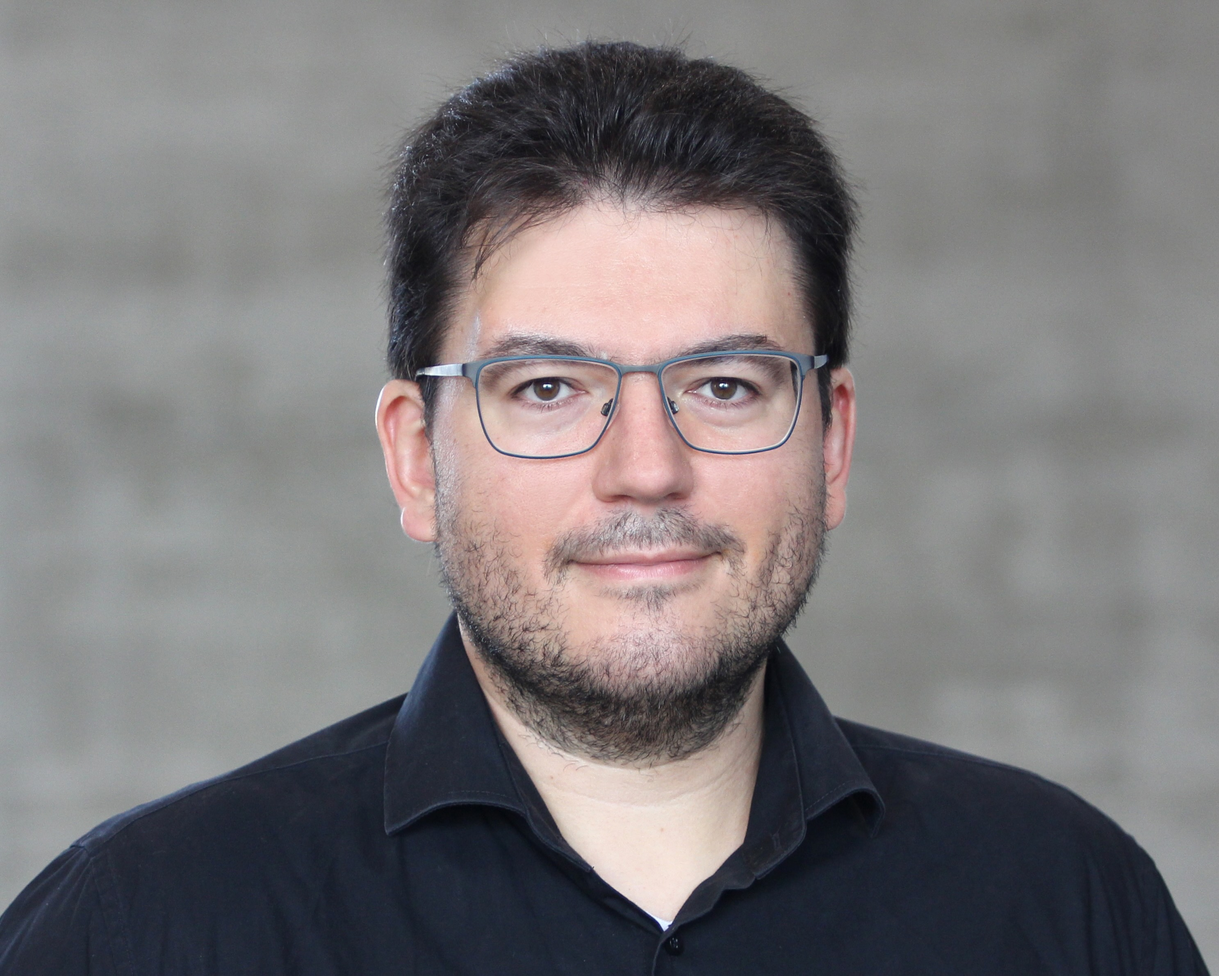
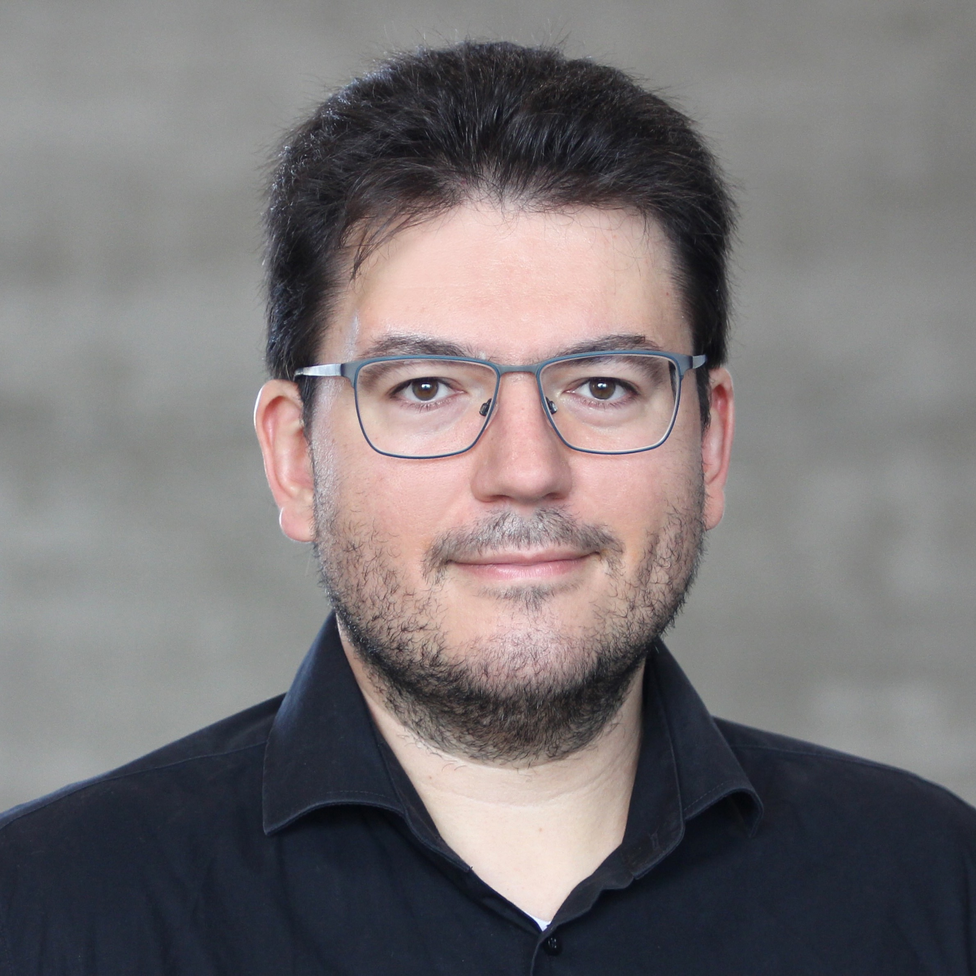
Update profile photo and publication links

diff --git a/assets/css/main.scss b/assets/css/main.scss
@@ -8,8 +8,30 @@ search: false
 @import "minimal-mistakes/skins/{{ site.minimal_mistakes_skin | default: 'default' }}"; // skin
 @import "minimal-mistakes"; // main partials
 
-.author__avatar img {
+.author__avatar {
   width: 140px;
   height: 140px;
+  overflow: hidden;
+}
+
+.author__avatar a {
+  display: block;
+  width: 100%;
+  height: 100%;
+}
+
+.author__avatar img {
+  width: 100%;
+  height: 100%;
+  max-width: none;
   object-fit: cover;
+  object-position: center top;
+  border-radius: 0;
+  padding: 0;
+}
+
+@media (min-width: 64em) {
+  .sidebar {
+    opacity: 1;
+  }
 }

diff --git a/publications.md b/publications.md
@@ -11,38 +11,38 @@ The hash <sup>&#35;</sup> indicates co-corresponding authorship.
 
 ### Peer-reviewed Journal Publications
 
-1. A. Tahaei, R. Piscitello-Gómez, S. Suganthan, G. Cwikla, J. F. Fuhrmann, N. A. Dye, and <u>M. Popović</u>. *Cell Divisions Imprint Long Lasting Elastic Strain Fields in Epithelial Tissues*, **PRX Life**, 3, 043008 (2025).
-2. Y. Maroudas-Sacks, S. Suganthan, L. Garion, Y. Ascoli-Abbina, A. Westfried, N. Dori, I. Pasvinter, <u>M. Popović</u><sup>&#35;</sup>, K. Keren<sup>&#35;</sup>. *Mechanical strain focusing at topological defect sites in regenerating Hydra*, **Development**, 152(4) (2025).
-3. Y. Maroudas-Sacks, L. Garion, S. Suganthan, <u>M. Popović</u>, K. Keren. *Confinement modulates axial patterning in regenerating Hydra*, **PRX Life**, 2, 043007 (2024).
-4. T. H. Tan<sup>&#42;</sup>, A. Amiri<sup>&#42;</sup>, I. Seijo-Barandiarán<sup>&#42;</sup>, M. F. Staddon, A. Materne, S. Tomas, C. Duclut, <u>M. Popović</u><sup>&#35;</sup>, A. Grapin-Botton<sup>&#35;</sup>, F. Jülicher<sup>&#35;</sup>. *Emergent chirality in active solid rotation of pancreas spheres*, **PRX Life**, 2, 033006 (2024).
-5. J. F. Fuhrmann, A. Krishna, J. Paijmans, C. Duclut, G. Cwikla, S. Eaton, <u>M. Popović</u>, F. Jülicher, C. D. Modes, and N. A. Dye. *Active shape programming drives Drosophila wing disc eversion*, **Science Advances**, 10(32) (2024).
-6. T. Divoux et al. *Ductile-to-brittle transition and yielding in soft amorphous materials: perspectives and open questions*, **Soft Matter**, 20, 6868-6888 (2024).
-7. A. Amiri, C. Duclut, F. Jülicher, <u>M. Popović</u>. *Random traction yielding transition in epithelial tissues*, **Physical Review Letters**, 131, 188401 (2023).
-8. R. Takaki, L. Jawerth, <u>M. Popović</u><sup>&#35;</sup>, F. Jülicher<sup>&#35;</sup>. *Theory of rheology and aging of protein condensates*, **PRX Life**, 1, 013006 (2023).
-9. A. Tahaei, G. Biroli, M. Ozawa, <u>M. Popović</u>, M. Wyart. *Scaling Description of Dynamical Heterogeneity and Avalanches of Relaxation in Glass-Forming Liquids*, **Physical Review X**, 13, 031034 (2023).
-10. R. Piscitello-Gómez, F. S. Gruber, A. Krishna, C. Duclut, C. D. Modes, <u>M. Popović</u>, F. Jülicher, N. A. Dye, S. Eaton. *Core PCP mutations affect short-time mechanical properties but not tissue morphogenesis in the Drosophila pupal wing*, **eLife**, 12, e85581 (2023).
-11. <u>M. Popović</u>, T. W. J. de Geus, W. Ji, A. Rosso, M. Wyart. *Scaling description of creep flow in amorphous solids*, **Physical Review Letters**, 129(20), 208001 (2022).
-12. S. R. Naganathan<sup>&#35;</sup>, <u>M. Popović</u><sup>&#35;</sup>, A. C. Oates<sup>&#35;</sup>. *Left-right symmetry of zebrafish embryos requires somite surface tension*, **Nature**, 605(7910), 516-521 (2022).
-13. <u>M. Popović</u>, T. W. J. de Geus, W. Ji, M. Wyart. *Thermally activated flow in models of amorphous solids*, **Physical Review E**, 104(2), 025010 (2021).
-14. N. A. Dye<sup>&#42;</sup>, <u>M. Popović</u><sup>&#42;</sup>, K. V. Iyer, J. F. Fuhrmann, R. Piscitello-Gómez, S. Eaton, F. Jülicher. *Self-organized patterning of cell morphology via mechanosensitive feedback*, **eLife**, 10, e57964 (2021).
-15. <u>M. Popović</u><sup>&#42;</sup>, V. Druelle<sup>&#42;</sup>, N. A. Dye, F. Jülicher, M. Wyart. *Inferring the flow properties of epithelial tissues from their geometry*, **New Journal of Physics**, 23, 033004 (2021).
-16. W. Ji, T. W. J. de Geus, <u>M. Popović</u>, E. Agoritsas, M. Wyart. *Thermal origin of quasilocalized excitations in glasses*, **Physical Review E**, 102, 062110 (2020).
-17. T. W. J. de Geus, <u>M. Popović</u>, W. Ji, A. Rosso, and M. Wyart. *How collective asperity detachments nucleate slip at frictional interfaces*, **Proceedings of the National Academy of Sciences**, 116(48), 23977-23983 (2019).
-18. W. Ji, <u>M. Popović</u>, T. W. J. de Geus, E. Lerner, and M. Wyart. *Theory for the density of interacting quasi-localised modes in amorphous solids*, **Physical Review E**, 99, 023003 (2019).
-19. <u>M. Popović</u>, T. W. J. de Geus, and M. Wyart. *Elastoplastic description of sudden failure in athermal amorphous materials during quasistatic loading*, **Physical Review E** (Rapid Communication), 98, 040901(R) (2018).
-20. N. A. Dye, <u>M. Popović</u>, S. Spannl, R. Etournay, D. Kainmüller, S. Ghosh, E. W. Myers, F. Jülicher, and S. Eaton. *Cell dynamics underlying oriented growth of the Drosophila wing imaginal disc*, **Development** (2017).
-21. M. Merkel, R. Etournay, <u>M. Popović</u>, G. Salbreux, S. Eaton, and F. Jülicher. *Triangles bridge the scales: Quantifying cellular contributions to tissue deformation*, **Physical Review E**, 95, 032401 (2017).
-22. <u>M. Popović</u>, A. Nandi, M. Merkel, R. Etournay, S. Eaton, F. Jülicher, and G. Salbreux. *Active dynamics of tissue shear flow*, **New Journal of Physics**, 19(3), 033006 (2017).
-23. R. Etournay<sup>&#42;</sup>, M. Merkel<sup>&#42;</sup>, <u>M. Popović</u><sup>&#42;</sup>, H. Brandl<sup>&#42;</sup>, N. A. Dye, B. Aigouy, G. Salbreux, S. Eaton, and F. Jülicher. *TissueMiner: a multiscale analysis toolkit to quantify how cellular processes create tissue dynamics*, **eLife**, 5, e14334 (2016).
-24. R. Etournay<sup>&#42;</sup>, <u>M. Popović</u><sup>&#42;</sup>, M. Merkel<sup>&#42;</sup>, A. Nandi<sup>&#42;</sup>, C. Blasse, B. Aigouy, H. Brandl, G. Myers, G. Salbreux, F. Jülicher, et al. *Interplay of cell dynamics and epithelial tension during morphogenesis of the Drosophila pupal wing*, **eLife**, 4, e07090 (2015).
-25. <u>M. Popović</u>, H. Štefančić, B. Sluban, P. K. Novak, M. Grčar, I. Možetič, M. Puliga, and V. Zlatić. *Extraction of temporal networks from term co-occurrences in online textual sources*, **PLOS ONE**, 9(12), e99515 (2014).
-26. <u>M. Popović</u> and A. Šiber. *Lattice-gas Poisson-Boltzmann approach for sterically asymmetric electrolytes*, **Physical Review E**, 88, 022302 (2013).
-27. <u>M. Popović</u>, H. Štefančić, and V. Zlatić. *Geometric origin of scaling in large traffic networks*, **Physical Review Letters**, 109, 208701 (2012).
+1. A. Tahaei, R. Piscitello-Gómez, S. Suganthan, G. Cwikla, J. F. Fuhrmann, N. A. Dye, and <u>M. Popović</u>. *Cell Divisions Imprint Long Lasting Elastic Strain Fields in Epithelial Tissues*, **PRX Life**, 3, 043008 (2025). [Journal](https://doi.org/10.1103/lh3v-v2c9) [Preprint](https://doi.org/10.48550/arXiv.2406.03433)
+2. Y. Maroudas-Sacks, S. Suganthan, L. Garion, Y. Ascoli-Abbina, A. Westfried, N. Dori, I. Pasvinter, <u>M. Popović</u><sup>&#35;</sup>, K. Keren<sup>&#35;</sup>. *Mechanical strain focusing at topological defect sites in regenerating Hydra*, **Development**, 152(4) (2025). [Journal](https://doi.org/10.1242/dev.204514) [Preprint](https://doi.org/10.1101/2024.06.13.598802)
+3. Y. Maroudas-Sacks, L. Garion, S. Suganthan, <u>M. Popović</u>, K. Keren. *Confinement modulates axial patterning in regenerating Hydra*, **PRX Life**, 2, 043007 (2024). [Journal](https://doi.org/10.1103/PRXLife.2.043007) [Preprint](https://doi.org/10.1101/2024.06.13.598813)
+4. T. H. Tan<sup>&#42;</sup>, A. Amiri<sup>&#42;</sup>, I. Seijo-Barandiarán<sup>&#42;</sup>, M. F. Staddon, A. Materne, S. Tomas, C. Duclut, <u>M. Popović</u><sup>&#35;</sup>, A. Grapin-Botton<sup>&#35;</sup>, F. Jülicher<sup>&#35;</sup>. *Emergent chirality in active solid rotation of pancreas spheres*, **PRX Life**, 2, 033006 (2024). [Journal](https://doi.org/10.1103/PRXLife.2.033006) [Preprint](https://doi.org/10.1101/2022.09.29.510101)
+5. J. F. Fuhrmann, A. Krishna, J. Paijmans, C. Duclut, G. Cwikla, S. Eaton, <u>M. Popović</u>, F. Jülicher, C. D. Modes, and N. A. Dye. *Active shape programming drives Drosophila wing disc eversion*, **Science Advances**, 10(32) (2024). [Journal](https://doi.org/10.1126/sciadv.adp0860) [Preprint](https://doi.org/10.1101/2023.12.23.573034)
+6. T. Divoux et al. *Ductile-to-brittle transition and yielding in soft amorphous materials: perspectives and open questions*, **Soft Matter**, 20, 6868-6888 (2024). [Journal](https://doi.org/10.1039/d3sm01740k) [Preprint](https://arxiv.org/abs/2312.14278)
+7. A. Amiri, C. Duclut, F. Jülicher, <u>M. Popović</u>. *Random traction yielding transition in epithelial tissues*, **Physical Review Letters**, 131, 188401 (2023). [Journal](https://doi.org/10.1103/PhysRevLett.131.188401) [Preprint](https://arxiv.org/abs/2211.02159)
+8. R. Takaki, L. Jawerth, <u>M. Popović</u><sup>&#35;</sup>, F. Jülicher<sup>&#35;</sup>. *Theory of rheology and aging of protein condensates*, **PRX Life**, 1, 013006 (2023). [Journal](https://doi.org/10.1103/PRXLife.1.013006) [Preprint](https://arxiv.org/abs/2303.18028)
+9. A. Tahaei, G. Biroli, M. Ozawa, <u>M. Popović</u>, M. Wyart. *Scaling Description of Dynamical Heterogeneity and Avalanches of Relaxation in Glass-Forming Liquids*, **Physical Review X**, 13, 031034 (2023). [Journal](https://doi.org/10.1103/PhysRevX.13.031034) [Preprint](https://arxiv.org/abs/2305.00219)
+10. R. Piscitello-Gómez, F. S. Gruber, A. Krishna, C. Duclut, C. D. Modes, <u>M. Popović</u>, F. Jülicher, N. A. Dye, S. Eaton. *Core PCP mutations affect short-time mechanical properties but not tissue morphogenesis in the Drosophila pupal wing*, **eLife**, 12, e85581 (2023). [Journal](https://doi.org/10.7554/eLife.85581)
+11. <u>M. Popović</u>, T. W. J. de Geus, W. Ji, A. Rosso, M. Wyart. *Scaling description of creep flow in amorphous solids*, **Physical Review Letters**, 129(20), 208001 (2022). [Journal](https://doi.org/10.1103/PhysRevLett.129.208001) [Preprint](https://arxiv.org/abs/2111.04061)
+12. S. R. Naganathan<sup>&#35;</sup>, <u>M. Popović</u><sup>&#35;</sup>, A. C. Oates<sup>&#35;</sup>. *Left-right symmetry of zebrafish embryos requires somite surface tension*, **Nature**, 605(7910), 516-521 (2022). [Journal](https://doi.org/10.1038/s41586-022-04646-9)
+13. <u>M. Popović</u>, T. W. J. de Geus, W. Ji, M. Wyart. *Thermally activated flow in models of amorphous solids*, **Physical Review E**, 104(2), 025010 (2021). [Journal](https://doi.org/10.1103/PhysRevE.104.025010) [Preprint](https://arxiv.org/abs/2009.04963)
+14. N. A. Dye<sup>&#42;</sup>, <u>M. Popović</u><sup>&#42;</sup>, K. V. Iyer, J. F. Fuhrmann, R. Piscitello-Gómez, S. Eaton, F. Jülicher. *Self-organized patterning of cell morphology via mechanosensitive feedback*, **eLife**, 10, e57964 (2021). [Journal](https://doi.org/10.7554/eLife.57964) [Preprint](https://www.biorxiv.org/content/10.1101/2020.04.16.044883v1)
+15. <u>M. Popović</u><sup>&#42;</sup>, V. Druelle<sup>&#42;</sup>, N. A. Dye, F. Jülicher, M. Wyart. *Inferring the flow properties of epithelial tissues from their geometry*, **New Journal of Physics**, 23, 033004 (2021). [Journal](https://doi.org/10.1088/1367-2630/abcbc7) [Preprint](https://arxiv.org/abs/2002.05133)
+16. W. Ji, T. W. J. de Geus, <u>M. Popović</u>, E. Agoritsas, M. Wyart. *Thermal origin of quasilocalized excitations in glasses*, **Physical Review E**, 102, 062110 (2020). [Journal](https://doi.org/10.1103/PhysRevE.102.062110)
+17. T. W. J. de Geus, <u>M. Popović</u>, W. Ji, A. Rosso, and M. Wyart. *How collective asperity detachments nucleate slip at frictional interfaces*, **Proceedings of the National Academy of Sciences**, 116(48), 23977-23983 (2019). [Journal](https://doi.org/10.1073/pnas.1906551116) [Preprint](https://arxiv.org/abs/1904.07635)
+18. W. Ji, <u>M. Popović</u>, T. W. J. de Geus, E. Lerner, and M. Wyart. *Theory for the density of interacting quasi-localised modes in amorphous solids*, **Physical Review E**, 99, 023003 (2019). [Journal](https://doi.org/10.1103/PhysRevE.99.023003) [Preprint](https://arxiv.org/abs/1806.01561)
+19. <u>M. Popović</u>, T. W. J. de Geus, and M. Wyart. *Elastoplastic description of sudden failure in athermal amorphous materials during quasistatic loading*, **Physical Review E** (Rapid Communication), 98, 040901(R) (2018). [Journal](https://doi.org/10.1103/PhysRevE.98.040901)
+20. N. A. Dye, <u>M. Popović</u>, S. Spannl, R. Etournay, D. Kainmüller, S. Ghosh, E. W. Myers, F. Jülicher, and S. Eaton. *Cell dynamics underlying oriented growth of the Drosophila wing imaginal disc*, **Development** (2017). [Journal](https://doi.org/10.1242/dev.155069)
+21. M. Merkel, R. Etournay, <u>M. Popović</u>, G. Salbreux, S. Eaton, and F. Jülicher. *Triangles bridge the scales: Quantifying cellular contributions to tissue deformation*, **Physical Review E**, 95, 032401 (2017). [Journal](https://doi.org/10.1103/PhysRevE.95.032401) [Preprint](https://arxiv.org/abs/1607.00357)
+22. <u>M. Popović</u>, A. Nandi, M. Merkel, R. Etournay, S. Eaton, F. Jülicher, and G. Salbreux. *Active dynamics of tissue shear flow*, **New Journal of Physics**, 19(3), 033006 (2017). [Journal](https://doi.org/10.1088/1367-2630/aa5756) [Preprint](https://arxiv.org/abs/1607.03304)
+23. R. Etournay<sup>&#42;</sup>, M. Merkel<sup>&#42;</sup>, <u>M. Popović</u><sup>&#42;</sup>, H. Brandl<sup>&#42;</sup>, N. A. Dye, B. Aigouy, G. Salbreux, S. Eaton, and F. Jülicher. *TissueMiner: a multiscale analysis toolkit to quantify how cellular processes create tissue dynamics*, **eLife**, 5, e14334 (2016). [Journal](https://doi.org/10.7554/eLife.14334)
+24. R. Etournay<sup>&#42;</sup>, <u>M. Popović</u><sup>&#42;</sup>, M. Merkel<sup>&#42;</sup>, A. Nandi<sup>&#42;</sup>, C. Blasse, B. Aigouy, H. Brandl, G. Myers, G. Salbreux, F. Jülicher, et al. *Interplay of cell dynamics and epithelial tension during morphogenesis of the Drosophila pupal wing*, **eLife**, 4, e07090 (2015). [Journal](https://doi.org/10.7554/eLife.07090)
+25. <u>M. Popović</u>, H. Štefančić, B. Sluban, P. K. Novak, M. Grčar, I. Možetič, M. Puliga, and V. Zlatić. *Extraction of temporal networks from term co-occurrences in online textual sources*, **PLOS ONE**, 9(12), e99515 (2014). [Journal](https://doi.org/10.1371/journal.pone.0099515)
+26. <u>M. Popović</u> and A. Šiber. *Lattice-gas Poisson-Boltzmann approach for sterically asymmetric electrolytes*, **Physical Review E**, 88, 022302 (2013). [Journal](https://doi.org/10.1103/PhysRevE.88.022302)
+27. <u>M. Popović</u>, H. Štefančić, and V. Zlatić. *Geometric origin of scaling in large traffic networks*, **Physical Review Letters**, 109, 208701 (2012). [Journal](https://doi.org/10.1103/PhysRevLett.109.208701)
 
 ### Preprints
 
-1. A. Westfried, L. Garion, <u>M. Popović</u>, K. Keren. *Body-Axis Reorientation in Regenerating Hydra under Geometric Confinement*, **bioRxiv**. <a href="https://doi.org/10.64898/2026.06.25.734673">10.64898/2026.06.25.734673</a> (2026).
-2. M. F. Staddon, N. A. Dye, <u>M. Popović</u><sup>&#35;</sup>, F. Jülicher<sup>&#35;</sup>. *Cell proliferation maintains cell area polydispersity in the growing fruit fly wing epithelium*, **arXiv**:2601.14509 (2026).
-3. J. Fuhrmann<sup>&#42;</sup>, V. M. Schimmenti<sup>&#42;</sup>, G. Cwikla, S. Lee, M. Yuan, M. Wilsch-Bräuninger, F. Jülicher, <u>M. Popović</u><sup>&#35;</sup>, N. A. Dye<sup>&#35;</sup>. *Apical extracellular matrix regulates fold morphogenesis in the Drosophila wing disc*, **bioRxiv** 2025.09.06.674631 (2025).
-4. K. Chhajed, F. S. Gruber, R. Etournay, N. A. Dye, F. Jülicher, <u>M. Popović</u>. *Cell size heterogeneity controls crystallization of the developing fruit fly wing*, **arXiv**:2505.05437 (2025).
-5. <u>M. Popović</u>, J. Prost, F. Jülicher. *Electrohydraulic activity of biological cells*, **arXiv**:2211.06909 (2022).
+1. A. Westfried, L. Garion, <u>M. Popović</u>, K. Keren. *Body-Axis Reorientation in Regenerating Hydra under Geometric Confinement*, **bioRxiv**. <a href="https://doi.org/10.64898/2026.06.25.734673">10.64898/2026.06.25.734673</a> (2026). [Preprint](https://doi.org/10.64898/2026.06.25.734673)
+2. M. F. Staddon, N. A. Dye, <u>M. Popović</u><sup>&#35;</sup>, F. Jülicher<sup>&#35;</sup>. *Cell proliferation maintains cell area polydispersity in the growing fruit fly wing epithelium*, **arXiv**:2601.14509 (2026). [Preprint](https://arxiv.org/abs/2601.14509)
+3. J. Fuhrmann<sup>&#42;</sup>, V. M. Schimmenti<sup>&#42;</sup>, G. Cwikla, S. Lee, M. Yuan, M. Wilsch-Bräuninger, F. Jülicher, <u>M. Popović</u><sup>&#35;</sup>, N. A. Dye<sup>&#35;</sup>. *Apical extracellular matrix regulates fold morphogenesis in the Drosophila wing disc*, **bioRxiv** 2025.09.06.674631 (2025). [Preprint](https://doi.org/10.1101/2025.09.06.674631)
+4. K. Chhajed, F. S. Gruber, R. Etournay, N. A. Dye, F. Jülicher, <u>M. Popović</u>. *Cell size heterogeneity controls crystallization of the developing fruit fly wing*, **arXiv**:2505.05437 (2025). [Preprint](https://arxiv.org/abs/2505.05437)
+5. <u>M. Popović</u>, J. Prost, F. Jülicher. *Electrohydraulic activity of biological cells*, **arXiv**:2211.06909 (2022). [Preprint](https://arxiv.org/abs/2211.06909)

diff --git a/research.md b/research.md
@@ -8,11 +8,13 @@ classes: wide
 
 ## Research Interests
 
-Marko Popovic's work combines theoretical physics with biological problems, with particular focus on:
+I combine theoretical physics with biological problems, with particular focus on:
 
-- **Tissue Mechanics and Morphogenesis**: Understanding how tissues fold, flow, and shape themselves during development
-- **Biological tissues as active amorphous solids**: Investigating mechanical properties of soft and amorphous materials, from epithelial tissues to glass-forming systems
-- **Theoretical Models**: Vertex models, elastoplastic models, and particle-based descriptions of tissues
+- **Hydra Regeneration**: Mechanical and geometric control of body-axis formation and morphogenesis
+- **Tissue Folding**: Physical mechanisms of folding, eversion, and organ-scale shape change in epithelia
+- **Biological Tissues as Active Solids**: How living tissues store stress, remodel, and self-organize as active materials
+- **Plasticity and Yielding**: Mechanical response, irreversibility, and flow in tissues and amorphous materials
+- **Order and Disorder**: How proliferation, heterogeneity, and mechanics shape structural organization in developing tissues
 
 ---
 
